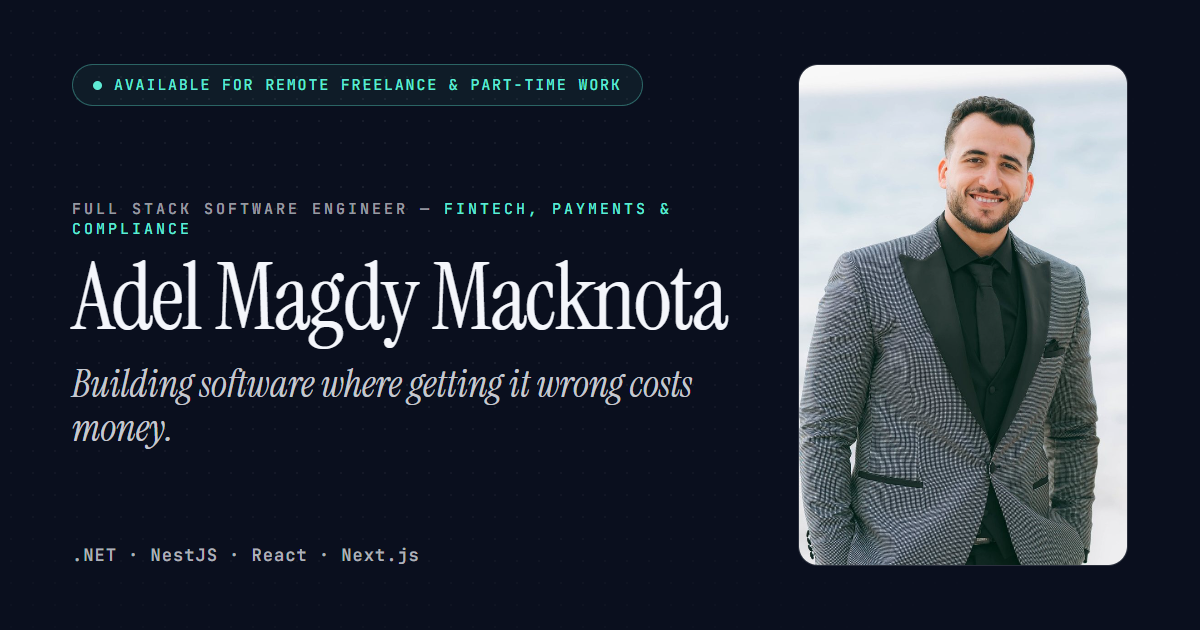
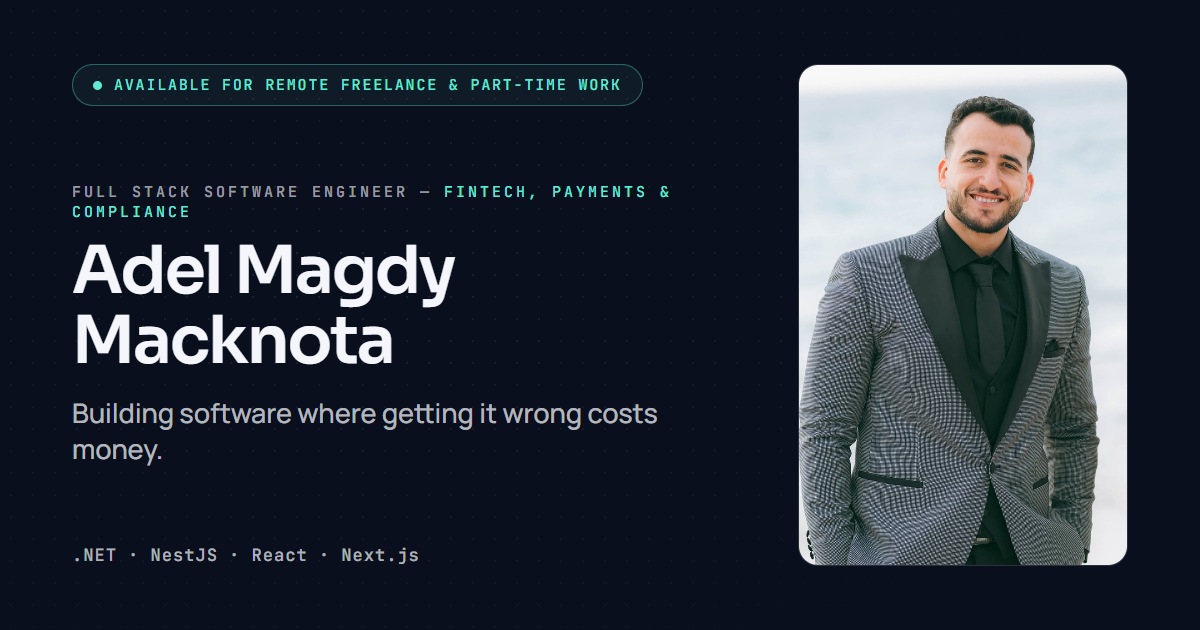
Replace the serif display face with Sora and rescale headings
The condensed serif read as dated in the hero and section titles.
Headings now use Sora at smaller sizes, the tagline is set in the body
face, and emphasis inside headings is carried by colour only. The
social share image is regenerated to match.

Changed region(s): [[0.0617, 0.2714, 0.6167, 0.7238], [0.37, 0.2714, 0.555, 0.3619]]

diff --git a/src/pages/ProjectDetail.tsx b/src/pages/ProjectDetail.tsx
@@ -68,7 +68,7 @@ const ProjectDetail = () => {
               <StatusChip project={project} />
             </div>
 
-            <h1 className="max-w-4xl text-[2.2rem] leading-[1.04] text-foreground sm:text-6xl lg:text-7xl">
+            <h1 className="max-w-4xl text-[1.8rem] leading-[1.1] text-foreground sm:text-5xl lg:text-[3.5rem]">
               {project.name}
             </h1>
             <p className="mt-5 max-w-2xl text-base leading-relaxed text-foreground/80 md:text-xl md:leading-relaxed">
@@ -121,7 +121,7 @@ const ProjectDetail = () => {
             <div className="lg:col-span-8">
               <Reveal>
                 <p className="label-mono mb-4">What I built</p>
-                <h2 className="mb-8 text-[1.8rem] leading-[1.1] text-foreground md:mb-10 md:text-5xl">
+                <h2 className="mb-8 text-[1.5rem] leading-[1.15] text-foreground md:mb-10 md:text-4xl">
                   The work, point by point.
                 </h2>
               </Reveal>
@@ -176,7 +176,7 @@ const ProjectDetail = () => {
             >
               <span className="label-mono">Next project</span>
               <span className="mt-8 flex items-end justify-between gap-4">
-                <span className="font-serif text-[1.6rem] leading-[1.1] text-foreground md:text-4xl">{next.name}</span>
+                <span className="font-display text-[1.3rem] leading-[1.2] text-foreground md:text-[1.9rem]">{next.name}</span>
                 <ArrowRight className="mb-1 h-5 w-5 shrink-0 text-primary transition-transform duration-300 group-hover:translate-x-1" />
               </span>
             </Link>
@@ -186,7 +186,7 @@ const ProjectDetail = () => {
                 {data.hero.statusBadge}
               </span>
               <span className="mt-8 flex flex-wrap items-end justify-between gap-4">
-                <span className="font-serif text-[1.6rem] leading-[1.1] text-foreground md:text-4xl">
+                <span className="font-display text-[1.3rem] leading-[1.2] text-foreground md:text-[1.9rem]">
                   Need something like this?
                 </span>
                 <Link to={{ pathname: "/", hash: "#contact" }} className="btn btn-primary">

diff --git a/src/components/portfolio/WorkWithMeSection.tsx b/src/components/portfolio/WorkWithMeSection.tsx
@@ -31,7 +31,7 @@ const WorkWithMeSection = ({ data }: WorkWithMeSectionProps) => {
             Open to remote freelance &amp; part-time work
           </p>
 
-          <h2 className="max-w-4xl text-[2rem] leading-[1.06] text-foreground sm:text-6xl md:text-7xl">
+          <h2 className="max-w-4xl text-[1.7rem] leading-[1.12] text-foreground sm:text-5xl md:text-[3.5rem]">
             Have something that <em className="text-primary">can't afford</em> to be wrong?
           </h2>
           <p className="mt-4 max-w-2xl text-sm leading-relaxed text-muted-foreground md:mt-6 md:text-lg">
@@ -46,7 +46,7 @@ const WorkWithMeSection = ({ data }: WorkWithMeSectionProps) => {
               <li key={service.title} className="bg-background">
                 <Reveal delay={index * 90} className="h-full p-5 md:p-8">
                   <span className="font-mono text-[11px] text-primary">{String(index + 1).padStart(2, "0")}</span>
-                  <h3 className="mt-2.5 font-serif text-xl leading-tight text-foreground md:mt-4 md:text-2xl">{service.title}</h3>
+                  <h3 className="mt-2.5 font-display text-[1.05rem] leading-tight text-foreground md:mt-4 md:text-xl">{service.title}</h3>
                   <p className="mt-2 text-[13px] leading-relaxed text-muted-foreground md:mt-3 md:text-sm">{service.description}</p>
                 </Reveal>
               </li>

diff --git a/src/components/portfolio/ProjectsSection.tsx b/src/components/portfolio/ProjectsSection.tsx
@@ -27,7 +27,7 @@ const ProjectCard = ({ project, index, number }: { project: Project; index: numb
           <span className="font-mono text-[11px] text-foreground/40">{String(number).padStart(2, "0")}</span>
           <StatusChip project={project} />
         </div>
-        <h3 className="font-serif text-[1.45rem] leading-[1.12] text-foreground sm:text-[1.75rem]">{project.name}</h3>
+        <h3 className="font-display text-[1.2rem] leading-[1.2] text-foreground sm:text-[1.4rem]">{project.name}</h3>
         <p className="mt-2.5 text-sm leading-relaxed text-muted-foreground sm:text-[15px]">{project.description}</p>
 
         <div className="mt-auto flex items-end justify-between gap-4 pt-5">
@@ -46,7 +46,7 @@ const ProjectCard = ({ project, index, number }: { project: Project; index: numb
 
 const GroupLabel = ({ title, note }: { title: string; note?: string }) => (
   <Reveal className="flex flex-wrap items-baseline justify-between gap-x-6 gap-y-2 border-t border-border pb-6 pt-8 md:pt-10">
-    <h3 className="font-serif text-[1.4rem] text-foreground md:text-3xl">{title}</h3>
+    <h3 className="font-display text-[1.2rem] text-foreground md:text-2xl">{title}</h3>
     {note && (
       <p className="inline-flex items-center gap-2 font-mono text-[10px] uppercase tracking-[0.12em] text-foreground/50 sm:text-[11px]">
         <Lock className="h-3 w-3" />

diff --git a/src/components/portfolio/AboutSection.tsx b/src/components/portfolio/AboutSection.tsx
@@ -42,7 +42,7 @@ const AboutSection = ({ data }: AboutSectionProps) => {
           <Reveal delay={100} className="lg:col-span-5">
             <div className="rounded-2xl border border-border bg-card/40 p-5 md:p-8">
               <Fact label="Education">
-                <p className="font-serif text-lg leading-snug text-foreground md:text-xl">{education.degree}</p>
+                <p className="font-display text-base leading-snug text-foreground md:text-lg">{education.degree}</p>
                 <p className="mt-1 text-sm text-muted-foreground">
                   {education.university} · {education.graduationYear}
                 </p>
@@ -56,7 +56,7 @@ const AboutSection = ({ data }: AboutSectionProps) => {
                 <Fact label="Training">
                   {data.courses.map((course) => (
                     <div key={course.name}>
-                      <p className="font-serif text-lg leading-snug text-foreground md:text-xl">
+                      <p className="font-display text-base leading-snug text-foreground md:text-lg">
                         {course.name} <span className="text-foreground/50">· {course.year}</span>
                       </p>
                       <p className="mt-1 text-sm leading-relaxed text-muted-foreground">{course.description}</p>

diff --git a/src/components/portfolio/Navbar.tsx b/src/components/portfolio/Navbar.tsx
@@ -44,7 +44,7 @@ const Navbar = ({ data }: NavbarProps) => {
     >
       <div className="shell flex h-14 items-center md:h-16 justify-between gap-6">
         <Link to={{ pathname: "/", hash: "#top" }} className="flex items-center gap-3" onClick={() => setIsOpen(false)}>
-          <span className="flex h-8 w-8 items-center justify-center rounded-full border border-primary/40 font-serif text-base md:h-9 md:w-9 md:text-lg leading-none text-primary">
+          <span className="flex h-8 w-8 items-center justify-center rounded-full border border-primary/40 font-display text-sm md:h-9 md:w-9 md:text-base leading-none text-primary">
             A
           </span>
           <span className="text-sm font-semibold tracking-tight text-foreground">
@@ -89,7 +89,7 @@ const Navbar = ({ data }: NavbarProps) => {
                 <Link
                   to={{ pathname: "/", hash: link.hash }}
                   onClick={() => setIsOpen(false)}
-                  className="flex items-baseline gap-4 py-3.5 font-serif text-2xl text-foreground"
+                  className="flex items-baseline gap-4 py-3.5 font-display text-xl text-foreground"
                 >
                   <span className="font-mono text-[11px] text-primary">0{index + 1}</span>
                   {link.label}

diff --git a/src/components/portfolio/HeroSection.tsx b/src/components/portfolio/HeroSection.tsx
@@ -49,12 +49,12 @@ const HeroSection = ({ data }: HeroSectionProps) => {
             )}
           </p>
 
-          <h1 className="text-[2.45rem] leading-[1] text-foreground sm:text-7xl lg:text-[5.4rem]">
+          <h1 className="text-[2.1rem] leading-[1.05] text-foreground sm:text-[3rem] lg:text-[3.4rem]">
             {hero.name}
           </h1>
 
           {hero.tagline && (
-            <p className="mt-4 max-w-xl font-serif text-[1.3rem] italic leading-[1.2] text-foreground/80 sm:mt-6 sm:text-4xl">
+            <p className="mt-4 max-w-xl text-[1.05rem] font-medium leading-[1.35] text-foreground/70 sm:mt-6 sm:text-2xl">
               {hero.tagline}
             </p>
           )}
@@ -137,7 +137,7 @@ const HeroSection = ({ data }: HeroSectionProps) => {
                 aria-hidden="true"
               />
               <figcaption className="absolute inset-x-0 bottom-0 p-5">
-                <span className="block font-serif text-xl leading-tight text-foreground">{hero.name}</span>
+                <span className="block font-display text-lg leading-tight text-foreground">{hero.name}</span>
                 <span className="mt-1 block font-mono text-[10px] uppercase tracking-[0.18em] text-foreground/60">
                   {hero.title}
                 </span>

diff --git a/src/components/portfolio/SkillsSection.tsx b/src/components/portfolio/SkillsSection.tsx
@@ -30,7 +30,7 @@ const SkillsSection = ({ data }: SkillsSectionProps) => {
             >
               <dt className="flex items-baseline gap-4 md:col-span-4">
                 <span className="font-mono text-[11px] text-foreground/35">{String(index + 1).padStart(2, "0")}</span>
-                <span className="font-serif text-xl leading-tight text-foreground md:text-2xl">{group.title}</span>
+                <span className="font-display text-[1.05rem] leading-tight text-foreground md:text-xl">{group.title}</span>
               </dt>
               <dd className="md:col-span-8">
                 <ul className="flex flex-wrap gap-1.5 md:gap-2">

diff --git a/src/components/portfolio/HighlightsSection.tsx b/src/components/portfolio/HighlightsSection.tsx
@@ -35,7 +35,7 @@ const HighlightsSection = ({ data }: HighlightsSectionProps) => {
             >
               <dt className="label-mono mb-2.5 md:mb-4">{stat.label}</dt>
               <dd>
-                <span className="block whitespace-nowrap font-serif text-[1.75rem] leading-none text-foreground sm:text-[2.6rem] md:text-[2.2rem] lg:text-[2.9rem]">
+                <span className="block whitespace-nowrap font-display text-[1.5rem] leading-none text-foreground sm:text-[2.1rem] md:text-[1.6rem] lg:text-[2.15rem]">
                   <StatValue value={stat.value} />
                 </span>
                 {stat.detail && (

diff --git a/index.html b/index.html
@@ -20,7 +20,7 @@
     <link rel="preconnect" href="https://fonts.googleapis.com" />
     <link rel="preconnect" href="https://fonts.gstatic.com" crossorigin />
     <link
-      href="https://fonts.googleapis.com/css2?family=Instrument+Serif:ital@0;1&family=JetBrains+Mono:wght@400;500&family=Manrope:wght@400;500;600;700&display=swap"
+      href="https://fonts.googleapis.com/css2?family=JetBrains+Mono:wght@400;500&family=Manrope:wght@400;500;600;700&family=Sora:wght@500;600&display=swap"
       rel="stylesheet"
     />
     <link rel="preload" as="image" href="/images/profile.webp" />

diff --git a/src/components/portfolio/Footer.tsx b/src/components/portfolio/Footer.tsx
@@ -20,7 +20,7 @@ const Footer = ({ data }: FooterProps) => {
     <footer className="border-t border-border">
       <div className="shell flex flex-col gap-6 py-8 md:flex-row md:gap-8 md:py-10 md:items-center md:justify-between">
         <div>
-          <p className="font-serif text-xl text-foreground md:text-2xl">{hero.name}</p>
+          <p className="font-display text-lg text-foreground md:text-xl">{hero.name}</p>
           <p className="mt-1 font-mono text-[11px] uppercase tracking-[0.14em] text-foreground/50">
             {hero.title} · {contact.location}
           </p>

diff --git a/src/components/portfolio/ExperienceSection.tsx b/src/components/portfolio/ExperienceSection.tsx
@@ -33,7 +33,7 @@ const ExperienceSection = ({ data }: ExperienceSectionProps) => {
                 </div>
 
                 <div className="md:col-span-8">
-                  <h3 className="font-serif text-[1.5rem] leading-[1.1] text-foreground md:text-[2.1rem]">
+                  <h3 className="font-display text-[1.25rem] leading-[1.2] text-foreground md:text-[1.7rem]">
                     {role.role}
                   </h3>
                   <p className="mt-2 text-sm font-medium text-foreground/80 md:text-[15px]">{role.company}</p>

diff --git a/src/pages/NotFound.tsx b/src/pages/NotFound.tsx
@@ -4,7 +4,7 @@ const NotFound = () => (
   <div className="dot-grid flex min-h-screen items-center justify-center bg-background px-5">
     <div className="text-center">
       <p className="label-mono mb-4">Error 404</p>
-      <h1 className="text-6xl text-foreground md:text-7xl">Page not found</h1>
+      <h1 className="text-4xl text-foreground md:text-6xl">Page not found</h1>
       <p className="mx-auto mt-4 max-w-sm text-muted-foreground">
         The page you're looking for doesn't exist or has moved.
       </p>
